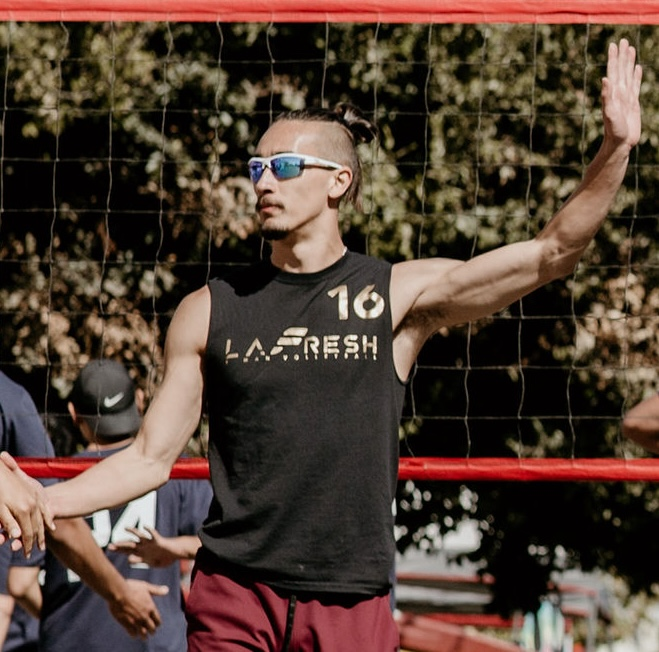
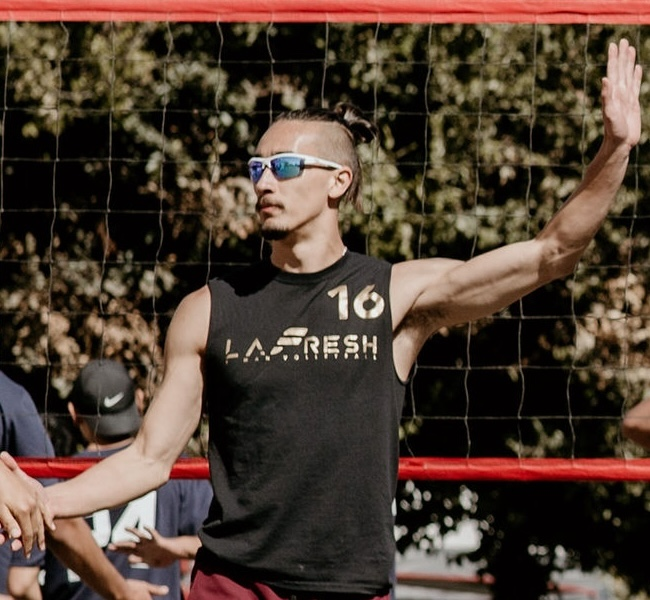
reset image size

diff --git a/index.html b/index.html
@@ -28,7 +28,7 @@
   <body>
 
     <header id="header">
-      <img src="waving_cropped.jpeg" alt="a picture of me" width="500" height="600">
+      <img src="waving_cropped.jpeg" alt="a picture of me">
       <h1>Arthur Young</h1>
 
       <!-- Menu link fragment #id should match a div id. Example: <a href="#home"> links to <div id="home"></div>  -->
